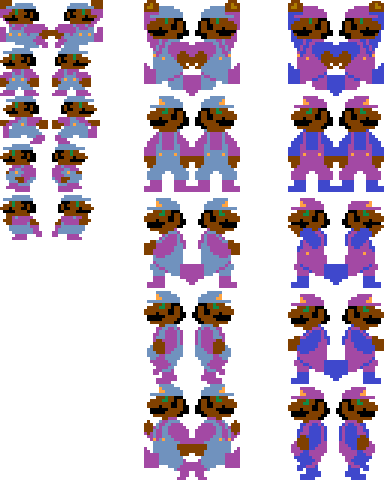
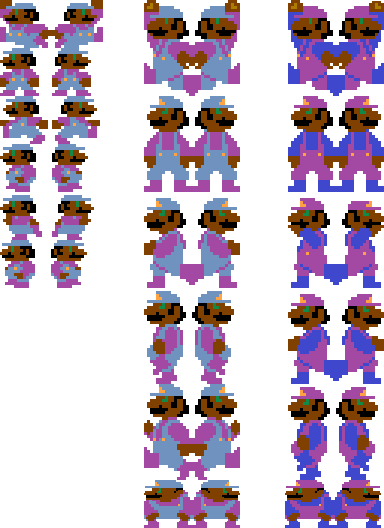
New animation for KoopaTroopa, Frames added for hero's sitting style.

diff --git a/src/SuperMario/input/ImageLoader.java b/src/SuperMario/input/ImageLoader.java
@@ -14,8 +14,8 @@ public class ImageLoader {
     private final BufferedImage brickAnimation;
     private final BufferedImage backgroundImage;
     private final BufferedImage superMushroom, oneHeartUpMushroom, fireFlower, coin;
-    private final BufferedImage border, ordinaryBrick, surpriseBrick, prizeBrick,oneCoinBrick, fiveCoinBrick, groundBrick, pipe, smallPipe, hole;
-    private final BufferedImage goombaLeft, goombaRight, koopaLeft, koopaRight, spinyLeft, spinyRight, piranhaOpen, piranhaClose, superStar, endFlag;
+    private final BufferedImage border, ordinaryBrick, surpriseBrick, prizeBrick, oneCoinBrick, fiveCoinBrick, groundBrick, pipe, smallPipe, hole;
+    private final BufferedImage goombaLeft, goombaRight, shell, koopaLeft, koopaRight, spinyLeft, spinyRight, piranhaOpen, piranhaClose, superStar, endFlag;
     private final BufferedImage startScreenImage, aboutScreenImage, helpScreenImage, gameOverScreen, storeScreenImage, loadGameScreen, pauseScreen;
     private final BufferedImage heartIcon;
     private final BufferedImage coinIcon;
@@ -49,6 +49,7 @@ public class ImageLoader {
         this.loadGameScreen = loadImage("/load-screen.png");
         this.pauseScreen = loadImage("/pause-screen.png");
         this.prizeBrick = loadImage("/prize.png");
+        this.shell = loadImage("/shell.png");
         this.icon = loadImage("/icon.jpg");
         this.coinIcon = getSubImage(sprite, 1, 5, 48, 48);
         this.superMushroom = getSubImage(sprite, 2, 5, 48, 48);
@@ -106,7 +107,15 @@ public class ImageLoader {
 
     public BufferedImage[] getHeroLeftFrames(int heroForm) {
 
-        BufferedImage[] leftFrames = new BufferedImage[5];
+        BufferedImage[] leftFrames;
+
+//        if (heroForm == 0) {
+//            leftFrames = new BufferedImage[5];
+//        } else {
+//        }
+        leftFrames = new BufferedImage[6];
+
+
         int col = 0, width = 0, height = 0;
 
         if (heroForm == 0) {
@@ -123,18 +132,19 @@ public class ImageLoader {
             height = 96;
         }
 
-        for (int i = 0; i < 5; i++) {
-            leftFrames[i] = heroForms.getSubimage((col - 1) * width, (i) * height, width, height);
-        }
-        return leftFrames;
+        return getHeroForms(leftFrames, col, width, height);
     }
 
     public BufferedImage[] getHeroRightFrames(int heroForm) {
 
-        BufferedImage[] rightFrames = new BufferedImage[5];
-        int col = 0;
-        int width = 0;
-        int height = 0;
+        BufferedImage[] rightFrames;
+//        if (heroForm == 0) {
+//            rightFrames = new BufferedImage[5];
+//        } else {
+//        }
+        rightFrames = new BufferedImage[6];
+
+        int col = 0, width = 0, height = 0;
 
         if (heroForm == 0) {
             col = 2;
@@ -150,8 +160,17 @@ public class ImageLoader {
             height = 96;
         }
 
-        for (int i = 0; i < 5; i++) {
-            rightFrames[i] = heroForms.getSubimage((col - 1) * width, (i) * height, width, height);
+        return getHeroForms(rightFrames, col, width, height);
+    }
+
+    private BufferedImage[] getHeroForms(BufferedImage[] rightFrames, int col, int width, int height) {
+        for (int i = 0; i < 6; i++) {
+            if (i < 5) {
+                rightFrames[i] = heroForms.getSubimage((col - 1) * width, (i) * height, width, height);
+            }
+            if (i == 5) {
+                rightFrames[i] = heroForms.getSubimage((col - 1) * width, (i) * height, width, 48);
+            }
         }
         return rightFrames;
     }
@@ -338,7 +357,7 @@ public class ImageLoader {
         return icon;
     }
 
-        public BufferedImage[] axeFrames(){
+    public BufferedImage[] axeFrames() {
         BufferedImage[] axeFrames = new BufferedImage[4];
         axeFrames[0] = axe0;
         axeFrames[1] = axe1;
@@ -347,11 +366,16 @@ public class ImageLoader {
 
         return axeFrames;
     }
+
     public BufferedImage getAxeUpRight() {
         return axe0;
     }
 
     public BufferedImage getAxeUpLeft() {
         return axe3;
+    }
+
+    public BufferedImage getShell() {
+        return shell;
     }
 }

diff --git a/src/SuperMario/graphic/manager/MapCreator.java b/src/SuperMario/graphic/manager/MapCreator.java
@@ -25,7 +25,7 @@ public class MapCreator {
     private BufferedImage backgroundImage;
     private BufferedImage superMushroom, oneHeartUpMushroom, fireFlower, coin;
     private BufferedImage border, ordinaryBrick, surpriseBrick, prizeBrick, oneCoinBrick, fiveCoinBrick, groundBrick, pipe, smallPipe, hole;
-    private BufferedImage goombaLeft, goombaRight, koopaLeft, koopaRight, spinyLeft, spinyRight, piranhaOpen, piranhaClose, superStar, endFlag;
+    private BufferedImage goombaLeft, goombaRight, shell, koopaLeft, koopaRight, spinyLeft, spinyRight, piranhaOpen, piranhaClose, superStar, endFlag;
 
 
     public MapCreator() {
@@ -65,6 +65,7 @@ public class MapCreator {
         this.goombaRight = imageLoader.getGoombaRight();
         this.koopaLeft = imageLoader.getKoopaLeft();
         this.koopaRight = imageLoader.getKoopaRight();
+        this.shell = imageLoader.getShell();
         this.endFlag = imageLoader.getEndFlag();
     }
 
@@ -153,6 +154,7 @@ public class MapCreator {
                 } else if (currentPixel == koopa) {
                     KoopaTroopa enemy = new KoopaTroopa(xLocation, yLocation, this.koopaLeft);
                     enemy.setRightImage(koopaRight);
+                    enemy.setShell(this.shell);
                     map.addEnemy(enemy);
                 } else if (currentPixel == spiny) {
                     Spiny enemy = new Spiny(xLocation, yLocation, this.spinyLeft);

diff --git a/src/SuperMario/model/hero/HeroForm.java b/src/SuperMario/model/hero/HeroForm.java
@@ -2,7 +2,6 @@ package SuperMario.model.hero;
 
 import SuperMario.graphic.view.animation.Animation;
 import SuperMario.input.ImageLoader;
-import SuperMario.model.weapon.Axe;
 import SuperMario.model.weapon.Fireball;
 
 import java.awt.image.BufferedImage;
@@ -19,6 +18,8 @@ public class HeroForm {
     private BufferedImage rightStandingFrame;
     private BufferedImage leftJumpingFrame;
     private BufferedImage rightJumpingFrame;
+    private BufferedImage leftSittingFrame;
+    private BufferedImage rightSittingFrame;
     private boolean isSuper;
     private boolean canShootFire;
     private boolean canActivateAxe;
@@ -63,11 +64,13 @@ public class HeroForm {
         rightJumpingFrame = rightImages[0];
         leftStandingFrame = leftImages[1];
         rightStandingFrame = rightImages[1];
+        leftSittingFrame = leftImages[5];
+        rightSittingFrame = rightImages[5];
 
-        BufferedImage[] leftFrames = new BufferedImage[size - 2];
-        BufferedImage[] rightFrames = new BufferedImage[size - 2];
+        BufferedImage[] leftFrames = new BufferedImage[size - 3];
+        BufferedImage[] rightFrames = new BufferedImage[size - 3];
 
-        for (int i = 0; i < size - 2; i++) {
+        for (int i = 0; i < size - 3; i++) {
             leftFrames[i] = leftImages[i + 2];
             rightFrames[i] = rightImages[i + 2];
         }

diff --git a/src/SuperMario/model/enemy/KoopaTroopa.java b/src/SuperMario/model/enemy/KoopaTroopa.java
@@ -8,6 +8,7 @@ import java.util.TimerTask;
 public class KoopaTroopa extends Enemy {
 
     private BufferedImage rightImage;
+    private BufferedImage shell;
     private boolean isHit;
     private Double lastVelX = 0.0;
 
@@ -19,10 +20,14 @@ public class KoopaTroopa extends Enemy {
 
     @Override
     public void draw(Graphics g) {
-        if (getVelX() > 0) {
-            g.drawImage(rightImage, (int) getX(), (int) getY(), null);
+        if (isHit()) {
+            g.drawImage(shell, (int) getX(), (int) getY() + 26, null);
         } else {
-            super.draw(g);
+            if (getVelX() > 0) {
+                g.drawImage(rightImage, (int) getX(), (int) getY(), null);
+            } else {
+                g.drawImage(getStyle(), (int) getX(), (int) getY(), null);
+            }
         }
     }
 
@@ -50,9 +55,9 @@ public class KoopaTroopa extends Enemy {
 
     public void moveAfterHit() {
         if (lastVelX > 0) {
-            setX(getX() + 48);
+            setX(getX() + 24);
         } else {
-            setX(getX() - 48);
+            setX(getX() - 24);
         }
     }
 
@@ -65,5 +70,9 @@ public class KoopaTroopa extends Enemy {
         };
         Timer timer = new Timer();
         timer.schedule(task, 3000);
+    }
+
+    public void setShell(BufferedImage shell) {
+        this.shell = shell;
     }
 }

diff --git a/src/SuperMario/model/hero/Luigi.java b/src/SuperMario/model/hero/Luigi.java
@@ -16,6 +16,10 @@ public class Luigi extends Hero{
 
     @Override
     public void jump() {
+//        if (isSitting()){
+//            setY(getLastY());
+//            setSitting(false);
+//        }
         if (!isJumping() && !isFalling()) {
             setJumping(true);
             setVelY(13);
@@ -25,6 +29,10 @@ public class Luigi extends Hero{
 
     @Override
     public void move(boolean toRight, Camera camera) {
+//        if (isSitting()){
+//            setY(getLastY());
+//            setSitting(false);
+//        }
         if (toRight) {
             setVelX(5);
         } else if (camera.getX() < getX()) {

diff --git a/src/SuperMario/model/hero/Mario.java b/src/SuperMario/model/hero/Mario.java
@@ -18,6 +18,10 @@ public class Mario extends Hero{
 
     @Override
     public void jump() {
+//        if (isSitting()){
+//            setY(getLastY());
+//            setSitting(false);
+//        }
         if (!isJumping() && !isFalling()) {
             setJumping(true);
             setVelY(10);
@@ -27,6 +31,10 @@ public class Mario extends Hero{
 
     @Override
     public void move(boolean toRight, Camera camera) {
+//        if (isSitting()){
+//            setY(getLastY());
+//            setSitting(false);
+//        }
         if (toRight) {
             setVelX(5);
         } else if (camera.getX() < getX()) {

diff --git a/src/SuperMario/model/obstacle/CoinBrick.java b/src/SuperMario/model/obstacle/CoinBrick.java
@@ -9,7 +9,7 @@ import SuperMario.model.prize.Prize;
 import java.awt.*;
 import java.awt.image.BufferedImage;
 
-public class CoinBrick extends SurpriseBrick{
+public class CoinBrick extends SurpriseBrick {
 
     private Prize prize;
     private Animation animation;
@@ -41,7 +41,7 @@ public class CoinBrick extends SurpriseBrick{
             Prize toReturn = this.prize;
             this.prize = null;
             return toReturn;
-        }else{
+        } else {
             MapManager manager = engine.getMapManager();
             if (!manager.getHero().isSuper())
                 return null;

diff --git a/src/SuperMario/logic/GameEngine.java b/src/SuperMario/logic/GameEngine.java
@@ -325,6 +325,8 @@ public class GameEngine implements Runnable {
                 userData.getHero().move(true, camera);
             } else if (inputMgr.isLeft()) {
                 userData.getHero().move(false, camera);
+            } else if (inputMgr.isDown()) {
+             //   userData.getHero().sit();
             } else if (inputMgr.isEmpty()) {
                 userData.getHero().setVelX(0);
             } else if (inputMgr.isSpace()) {

diff --git a/src/SuperMario/model/hero/Hero.java b/src/SuperMario/model/hero/Hero.java
@@ -114,6 +114,8 @@ public abstract class Hero extends GameObject {
                 return true;
             } else {
                 engine.shakeCamera();
+                heroForm.setSuper(false);
+                heroForm.setCanShootFire(false);
                 heroForm.onTouchEnemy(engine.getImageLoader());
                 setDimension(48, 48);
                 setY(getY() + getDimension().getHeight());

diff --git a/src/SuperMario/graphic/manager/InputManager.java b/src/SuperMario/graphic/manager/InputManager.java
@@ -147,7 +147,6 @@ public class InputManager implements KeyListener, MouseListener {
         return isLeft() && isRight();
     }
     public boolean isUpAndDownSelected() {
-        return isUp() && isDown();
+        return keyPressed.contains(VK_DOWN) && keyPressed.contains(VK_UP);
     }
-
 }
